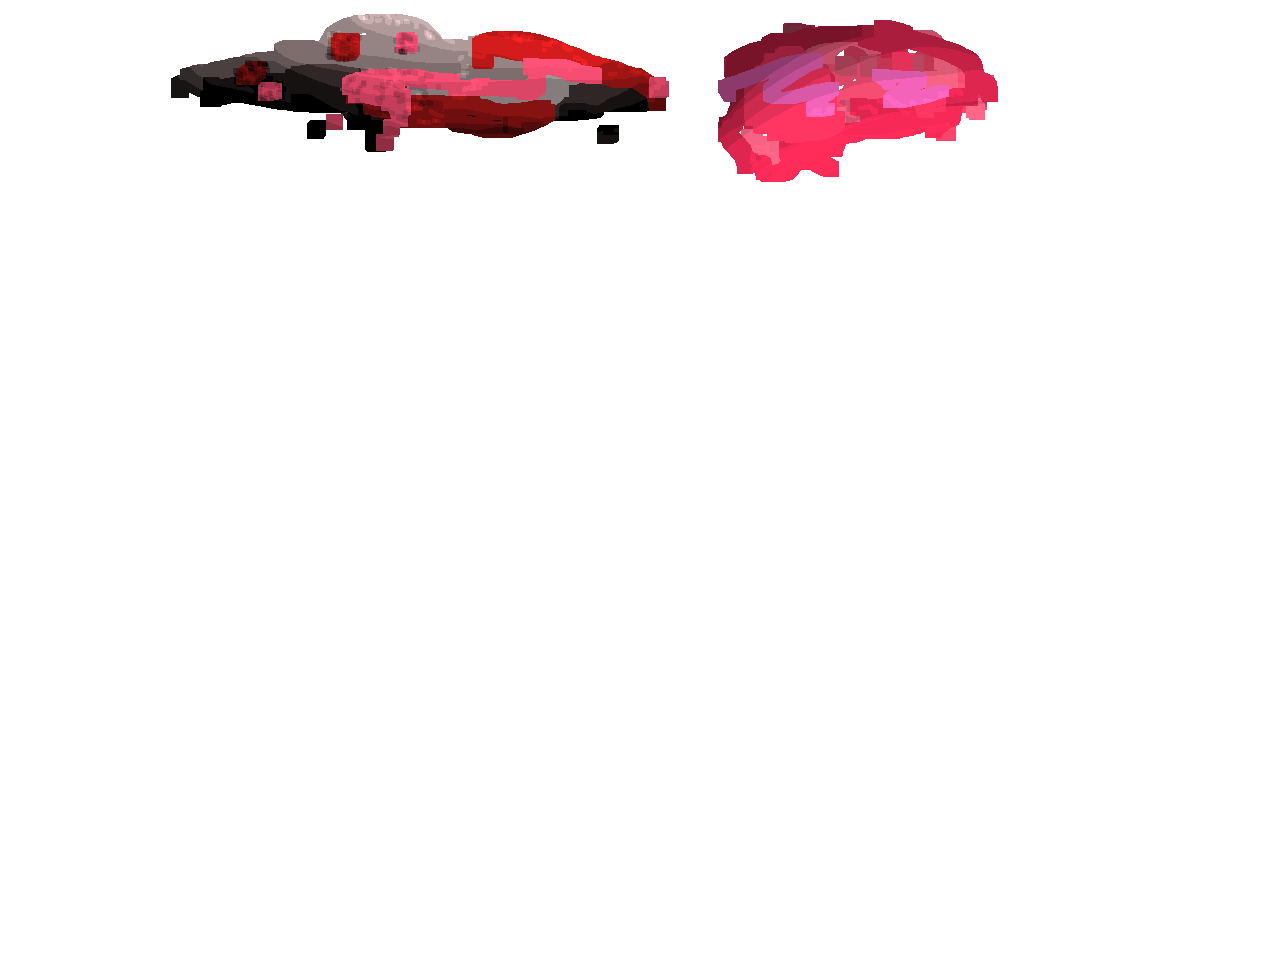
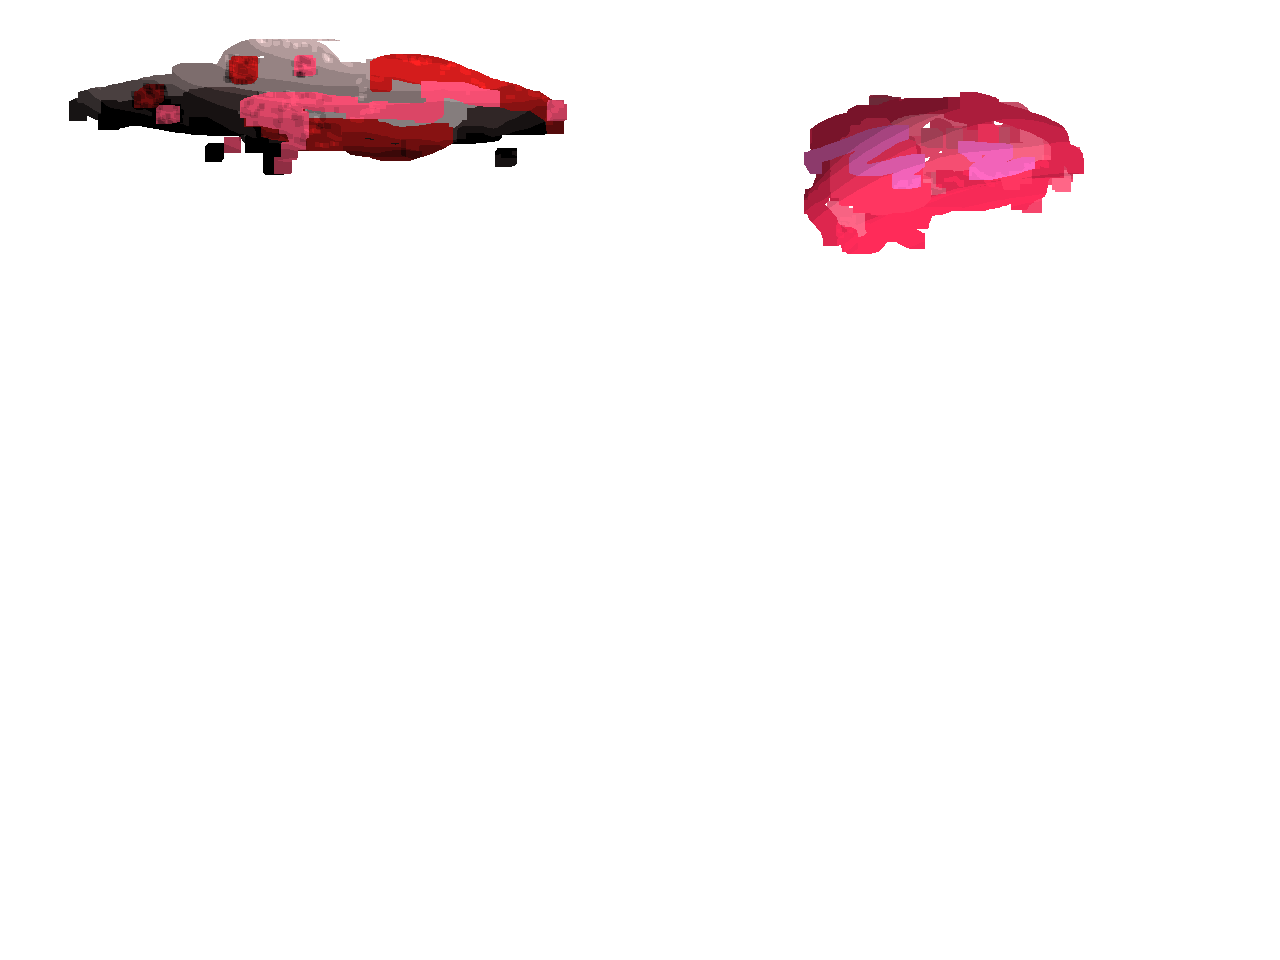
feat: new tiles, parallax y-axis

Changed region(s): [[0.0312, 0.0, 0.5312, 0.1875], [0.5625, 0.0, 0.8438, 0.2812]]

diff --git a/src/drawing/GameScreen.java b/src/drawing/GameScreen.java
@@ -50,14 +50,20 @@ public class GameScreen extends Pane {
 		}
 		imageViews[0][0].setLayoutX(-x);
 		imageViews[0][0].setLayoutY(-y);
-		for (int j = 0; j < backgroundRepeatTimes; ++j)
+		for (int j = 0; j < backgroundRepeatTimes; ++j) {
 			imageViews[1][j].setLayoutX(0.85 * -x + Resolution.WIDTH * j);
-		for (int j = 0; j < backgroundRepeatTimes; ++j)
+			imageViews[1][j].setLayoutY(1.05 * -y - 100);
+		}
+		for (int j = 0; j < backgroundRepeatTimes; ++j) {
 			imageViews[2][j].setLayoutX(1.05 * -x - Resolution.WIDTH * j);
+			imageViews[2][j].setLayoutY(1.15 * -y);
+		}
 		imageViews[3][0].setLayoutX(-x);
-		imageViews[3][0].setLayoutY(-y);
-		for (int j = 0; j < backgroundRepeatTimes; ++j)
-			imageViews[4][j].setLayoutX(1.18 * -x - Resolution.WIDTH * j);
+		imageViews[3][0].setLayoutY(1.1 * -y);
+		for (int j = 0; j < backgroundRepeatTimes; ++j) {
+			imageViews[4][j].setLayoutX(1.12 * -x - Resolution.WIDTH * j);
+			imageViews[4][j].setLayoutY(0.85 * -y + 60);
+		}
 
 		gameCanvas.drawComponent(x, y, this);
 	}

diff --git a/src/maps/MapManager.java b/src/maps/MapManager.java
@@ -10,6 +10,8 @@ import utils.Constants.BlockConstants;
 import utils.Constants.Resolution;
 import utils.Loader;
 
+import static utils.Constants.Maps.TILES_AMOUNT;
+
 public class MapManager {
 
 	private Image[] mapSprite;
@@ -23,8 +25,8 @@ public class MapManager {
 	}
 
 	public void importImages() {
-		mapSprite = new Image[5];
-		for (int i = 1; i <= 4; ++i) {
+		mapSprite = new Image[TILES_AMOUNT + 1];
+		for (int i = 1; i <= TILES_AMOUNT; ++i) {
 			mapSprite[i] = Loader.GetSpriteAtlas(Loader.TILES_ATLAS + String.format("Tiles_%02d.png", i));
 		}
 	}

diff --git a/src/utils/Constants.java b/src/utils/Constants.java
@@ -271,4 +271,8 @@ public class Constants {
 		public static final int CURSOR_OFFSET_X = 8;
 		public static final int CURSOR_OFFSET_Y = 30;
 	}
+	
+	public static class Maps {
+		public static final int TILES_AMOUNT = 11;
+	}
 }
